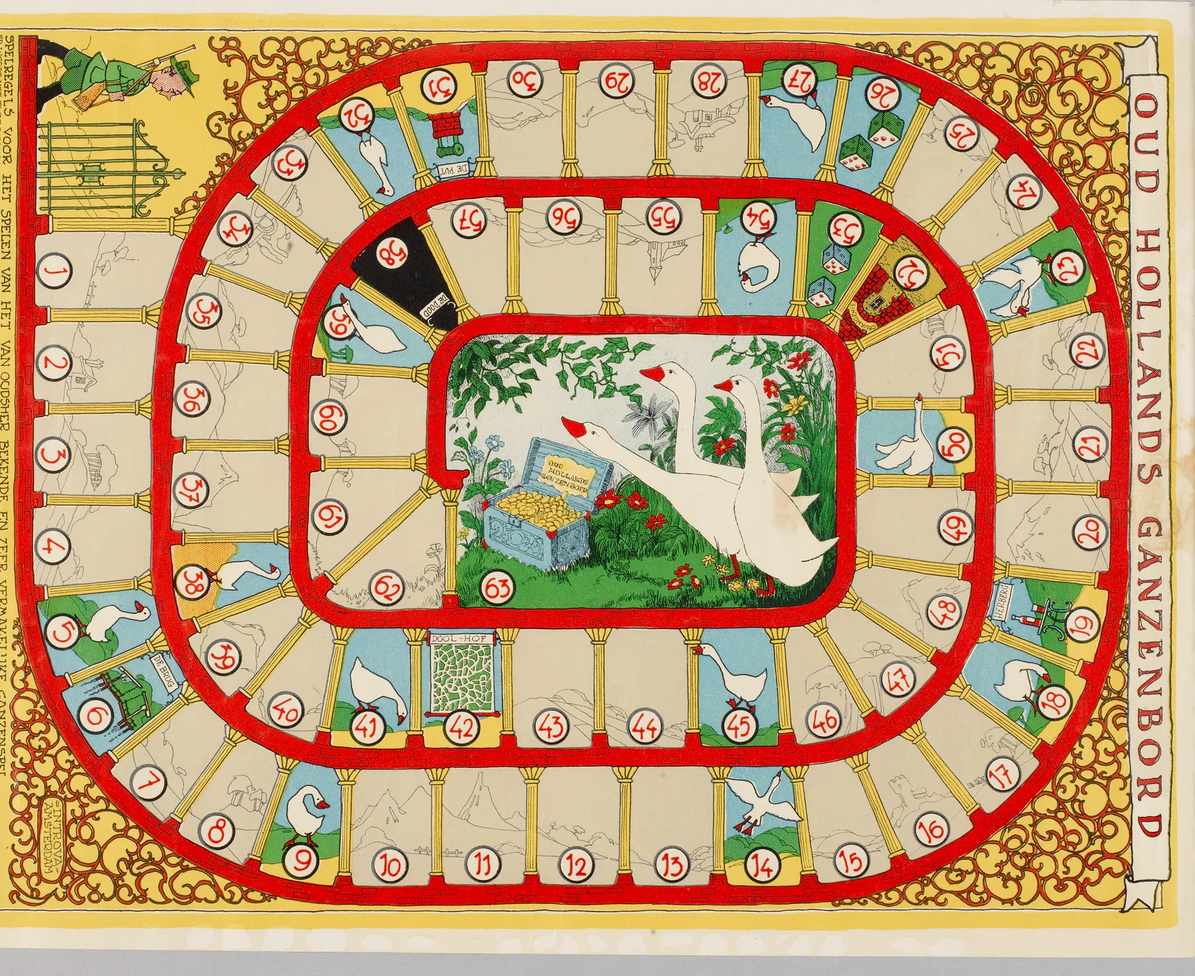
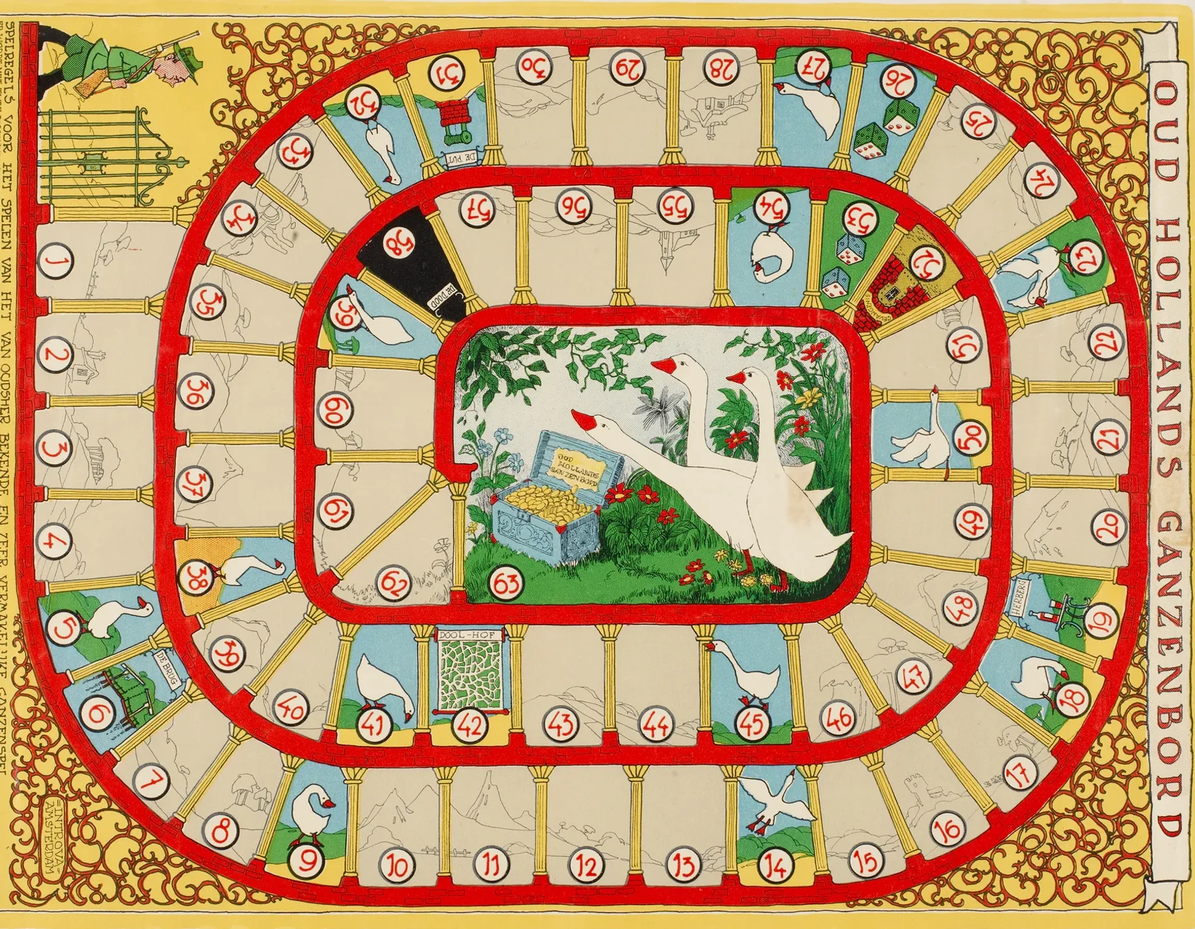
fix(features): strakker bord, geen startbalk en nieuwe thumbnail
Kropt de scan strakker zodat de papierranden weg zijn, haalt de dikke
houten CSS-rand weg en zet de pionnen bij de start boven vakje 1 in plaats
van in een losse START-balk. De gebeurteniskaart staat nu onder het bord
zodat hij geen vakjes of pionnen bedekt. Nieuwe thumbnail met een eigen
bestandsnaam tegen de immutable cache. Bordposities zijn opnieuw berekend
voor de nieuwe uitsnede; oude lokale aanpassingen worden via de
bordrevisie genegeerd.

diff --git a/libs/features/ganzenbord/model/board-points.ts b/libs/features/ganzenbord/model/board-points.ts
@@ -11,72 +11,77 @@ export interface BoardPoint {
 }
 
 export const CELL_POINTS: Readonly<Record<number, BoardPoint>> = {
-  1: { x: 9.752, y: 27.933 },
-  2: { x: 8.697, y: 37.243 },
-  3: { x: 9.224, y: 46.233 },
-  4: { x: 9.224, y: 53.939 },
-  5: { x: 9.311, y: 62.371 },
-  6: { x: 11.667, y: 69.495 },
-  7: { x: 16.042, y: 76.62 },
-  8: { x: 20.641, y: 79.908 },
-  9: { x: 25.801, y: 83.216 },
-  10: { x: 33.542, y: 82.668 },
-  11: { x: 41.282, y: 82.394 },
-  12: { x: 48.462, y: 83.079 },
-  13: { x: 55.641, y: 83.353 },
-  14: { x: 64.054, y: 82.805 },
-  15: { x: 70.337, y: 83.627 },
-  16: { x: 76.394, y: 80.476 },
-  17: { x: 81.891, y: 76.091 },
-  18: { x: 85.369, y: 69.515 },
-  19: { x: 87.949, y: 62.462 },
-  20: { x: 89.183, y: 54.379 },
-  21: { x: 88.622, y: 43.673 },
-  22: { x: 88.51, y: 35.863 },
-  23: { x: 87.388, y: 28.687 },
-  24: { x: 84.247, y: 21.973 },
-  25: { x: 79.087, y: 17.041 },
-  26: { x: 73.141, y: 13.205 },
-  27: { x: 66.635, y: 11.972 },
-  28: { x: 60.128, y: 10.739 },
-  29: { x: 51.939, y: 12.246 },
-  30: { x: 43.862, y: 12.383 },
-  31: { x: 37.692, y: 13.479 },
-  32: { x: 31.635, y: 16.904 },
-  33: { x: 26.699, y: 20.74 },
-  34: { x: 22.772, y: 26.632 },
-  35: { x: 20.978, y: 33.482 },
-  36: { x: 21.538, y: 40.528 },
-  37: { x: 21.538, y: 50.667 },
-  38: { x: 20.641, y: 57.517 },
-  39: { x: 21.651, y: 64.792 },
-  40: { x: 26.474, y: 68.08 },
-  41: { x: 31.859, y: 68.765 },
-  42: { x: 39.263, y: 69.45 },
-  43: { x: 46.891, y: 69.176 },
-  44: { x: 54.295, y: 70.135 },
-  45: { x: 61.923, y: 68.628 },
-  46: { x: 67.981, y: 68.354 },
-  47: { x: 73.029, y: 66.162 },
-  48: { x: 76.394, y: 60.681 },
-  49: { x: 76.394, y: 53.146 },
-  50: { x: 76.731, y: 44.938 },
-  51: { x: 77.628, y: 36.992 },
-  52: { x: 74.263, y: 30.279 },
-  53: { x: 69.888, y: 27.127 },
-  54: { x: 63.942, y: 26.99 },
-  55: { x: 56.09, y: 26.99 },
-  56: { x: 47.901, y: 26.442 },
-  57: { x: 40.385, y: 27.264 },
-  58: { x: 35.224, y: 29.046 },
-  59: { x: 31.186, y: 33.978 },
-  60: { x: 31.522, y: 41.787 },
-  61: { x: 30.962, y: 50.83 },
-  62: { x: 33.654, y: 57.132 },
-  63: { x: 45.208, y: 56.584 },
+  1: { x: 9.917, y: 28.242 },
+  2: { x: 8.844, y: 38.188 },
+  3: { x: 9.38, y: 47.791 },
+  4: { x: 9.38, y: 56.023 },
+  5: { x: 9.469, y: 65.031 },
+  6: { x: 11.865, y: 72.641 },
+  7: { x: 16.314, y: 80.253 },
+  8: { x: 20.991, y: 83.765 },
+  9: { x: 26.238, y: 87.299 },
+  10: { x: 34.111, y: 86.714 },
+  11: { x: 41.982, y: 86.421 },
+  12: { x: 49.283, y: 87.153 },
+  13: { x: 56.584, y: 87.445 },
+  14: { x: 65.14, y: 86.86 },
+  15: { x: 71.529, y: 87.738 },
+  16: { x: 77.689, y: 84.372 },
+  17: { x: 83.279, y: 79.688 },
+  18: { x: 86.816, y: 72.663 },
+  19: { x: 89.44, y: 65.128 },
+  20: { x: 90.695, y: 56.493 },
+  21: { x: 90.124, y: 45.057 },
+  22: { x: 90.01, y: 36.713 },
+  23: { x: 88.869, y: 29.048 },
+  24: { x: 85.675, y: 21.875 },
+  25: { x: 80.427, y: 16.607 },
+  26: { x: 74.381, y: 12.509 },
+  27: { x: 67.764, y: 11.192 },
+  28: { x: 61.147, y: 9.874 },
+  29: { x: 52.819, y: 11.484 },
+  30: { x: 44.605, y: 11.631 },
+  31: { x: 38.331, y: 12.801 },
+  32: { x: 32.171, y: 16.46 },
+  33: { x: 27.152, y: 20.558 },
+  34: { x: 23.158, y: 26.852 },
+  35: { x: 21.334, y: 34.17 },
+  36: { x: 21.903, y: 41.697 },
+  37: { x: 21.903, y: 52.528 },
+  38: { x: 20.991, y: 59.846 },
+  39: { x: 22.018, y: 67.617 },
+  40: { x: 26.923, y: 71.13 },
+  41: { x: 32.399, y: 71.862 },
+  42: { x: 39.928, y: 72.593 },
+  43: { x: 47.686, y: 72.301 },
+  44: { x: 55.215, y: 73.325 },
+  45: { x: 62.973, y: 71.715 },
+  46: { x: 69.133, y: 71.422 },
+  47: { x: 74.267, y: 69.081 },
+  48: { x: 77.689, y: 63.226 },
+  49: { x: 77.689, y: 55.176 },
+  50: { x: 78.032, y: 46.408 },
+  51: { x: 78.944, y: 37.92 },
+  52: { x: 75.522, y: 30.748 },
+  53: { x: 71.073, y: 27.381 },
+  54: { x: 65.026, y: 27.235 },
+  55: { x: 57.041, y: 27.235 },
+  56: { x: 48.713, y: 26.649 },
+  57: { x: 41.069, y: 27.527 },
+  58: { x: 35.821, y: 29.431 },
+  59: { x: 31.715, y: 34.7 },
+  60: { x: 32.056, y: 43.042 },
+  61: { x: 31.487, y: 52.702 },
+  62: { x: 34.224, y: 59.434 },
+  63: { x: 45.974, y: 58.849 },
 };
 
+/** Vlak boven vakje 1, waar de pionnen voor de eerste worp klaarstaan. */
+export const START_POINT: BoardPoint = { x: 9.917, y: 25.6 };
+
 const OVERRIDE_KEY = "games.ganzenbord.board-points.v1";
+/** Ophogen zodra de uitsnede van het bord verandert; oude percentages kloppen dan niet meer. */
+const BOARD_REVISION = 2;
 
 function isPercent(value: unknown): value is number {
   return typeof value === "number" && Number.isFinite(value) && value >= 0 && value <= 100;
@@ -106,7 +111,14 @@ function toOverrides(parsed: unknown): Record<number, BoardPoint> {
 
 function readOverrides(): Readonly<Record<number, BoardPoint>> {
   try {
-    return toOverrides(JSON.parse(localStorage.getItem(OVERRIDE_KEY) ?? "null"));
+    const stored = JSON.parse(localStorage.getItem(OVERRIDE_KEY) ?? "null") as {
+      readonly revision?: number;
+      readonly points?: unknown;
+    } | null;
+    if (stored?.revision !== BOARD_REVISION) {
+      return {};
+    }
+    return toOverrides(stored.points);
   } catch {
     return {};
   }
@@ -131,7 +143,10 @@ export function saveCellPoints(points: Readonly<Record<number, BoardPoint>>): vo
     }
   }
   try {
-    localStorage.setItem(OVERRIDE_KEY, JSON.stringify(overrides));
+    localStorage.setItem(
+      OVERRIDE_KEY,
+      JSON.stringify({ revision: BOARD_REVISION, points: overrides }),
+    );
   } catch {
     // Zonder opslag werkt de rest van het spel gewoon met de vaste waarden.
   }

diff --git a/tests/web/ganzenbord-board-points.test.ts b/tests/web/ganzenbord-board-points.test.ts
@@ -8,11 +8,18 @@ import {
 
 const KEY = "games.ganzenbord.board-points.v1";
 
-describe("ganzenbord: bordposities", () => {
-  beforeEach(() => {
-    localStorage.clear();
-  });
+function stored(): { revision: number; points: Record<string, unknown> } {
+  return JSON.parse(localStorage.getItem(KEY) ?? "{}") as {
+    revision: number;
+    points: Record<string, unknown>;
+  };
+}
 
+beforeEach(() => {
+  localStorage.clear();
+});
+
+describe("ganzenbord: bordposities", () => {
   it("gebruikt zonder aanpassing de vaste punten", () => {
     const points = loadCellPoints();
     expect(points[1]).toEqual(CELL_POINTS[1]);
@@ -22,9 +29,8 @@ describe("ganzenbord: bordposities", () => {
   it("bewaart alleen de vakjes die echt verschillen", () => {
     saveCellPoints({ ...CELL_POINTS, 5: { x: 12.5, y: 34.5 } });
 
-    expect(JSON.parse(localStorage.getItem(KEY) ?? "{}")).toEqual({
-      5: { x: 12.5, y: 34.5 },
-    });
+    expect(stored().revision).toBe(2);
+    expect(stored().points).toEqual({ 5: { x: 12.5, y: 34.5 } });
     expect(loadCellPoints()[5]).toEqual({ x: 12.5, y: 34.5 });
     expect(loadCellPoints()[6]).toEqual(CELL_POINTS[6]);
   });
@@ -33,11 +39,14 @@ describe("ganzenbord: bordposities", () => {
     localStorage.setItem(
       KEY,
       JSON.stringify({
-        2: { x: 10, y: 20 },
-        3: { x: -1, y: 20 },
-        4: { x: 10, y: "20" },
-        64: { x: 10, y: 20 },
-        hallo: { x: 10, y: 20 },
+        revision: 2,
+        points: {
+          2: { x: 10, y: 20 },
+          3: { x: -1, y: 20 },
+          4: { x: 10, y: "20" },
+          64: { x: 10, y: 20 },
+          hallo: { x: 10, y: 20 },
+        },
       }),
     );
 
@@ -46,6 +55,12 @@ describe("ganzenbord: bordposities", () => {
     expect(points[3]).toEqual(CELL_POINTS[3]);
     expect(points[4]).toEqual(CELL_POINTS[4]);
     expect(points[64]).toBeUndefined();
+  });
+
+  it("negeert aanpassingen van een oudere bordversie", () => {
+    localStorage.setItem(KEY, JSON.stringify({ revision: 1, points: { 2: { x: 10, y: 20 } } }));
+
+    expect(loadCellPoints()[2]).toEqual(CELL_POINTS[2]);
   });
 
   it("valt terug op de vaste punten bij kapotte opslag", () => {

diff --git a/libs/features/ganzenbord/ui/ganzenbord-board.tsx b/libs/features/ganzenbord/ui/ganzenbord-board.tsx
@@ -1,7 +1,7 @@
 import { useState } from "react";
 import type { GanzenbordGame, PlayerState } from "@entities/ganzenbord";
 import { cn } from "@shared/lib";
-import { loadCellPoints } from "../model/board-points";
+import { loadCellPoints, START_POINT } from "../model/board-points";
 import { playerName, positionText } from "../model/presentation";
 import { GanzenbordPawn } from "./ganzenbord-pawn";
 
@@ -62,25 +62,9 @@ interface GanzenbordBoardProps {
 export function GanzenbordBoard({ game }: GanzenbordBoardProps) {
   const [points] = useState(loadCellPoints);
   const groups = groupPlayers(game.players);
-  const startPlayers = game.players.filter((player) => player.position === 0);
 
   return (
     <div aria-label={boardSummary(game)} className="ganzenbord-board relative" role="img">
-      <div className="flex min-h-9 items-center gap-2 border-b border-[#7a4a24]/30 bg-[#f4e7cf] px-2 py-1">
-        <span className="text-[10px] font-black uppercase tracking-wide text-[#6b4224]">Start</span>
-        {startPlayers.length > 0 ? (
-          startPlayers.map((player) => (
-            <GanzenbordPawn
-              key={player.id}
-              active={player.id === game.current && game.status === "playing"}
-              compact
-              player={player}
-            />
-          ))
-        ) : (
-          <span className="text-xs text-muted-foreground">Hier begin je</span>
-        )}
-      </div>
       <div className="relative">
         <img
           alt=""
@@ -90,7 +74,7 @@ export function GanzenbordBoard({ game }: GanzenbordBoardProps) {
         />
         <div className="pointer-events-none absolute inset-0">
           {[...groups.entries()].map(([position, players]) => {
-            const point = points[position];
+            const point = position === 0 ? START_POINT : points[position];
             if (!point) {
               return null;
             }

diff --git a/libs/features/ganzenbord/ui/ganzenbord-event.tsx b/libs/features/ganzenbord/ui/ganzenbord-event.tsx
@@ -73,7 +73,7 @@ export function GanzenbordEvent({ game, event, onContinue }: GanzenbordEventProp
   return (
     <div
       aria-live="polite"
-      className="absolute bottom-3 left-1/2 z-20 w-[min(92%,26rem)] -translate-x-1/2 rounded-xl border-2 border-[#c9a45c] bg-[#fff8e7] p-3 text-[#3f2a18] shadow-[0_10px_30px_-10px_rgba(40,25,10,0.8)]"
+      className="mx-auto mt-2 w-full max-w-md rounded-xl border-2 border-[#c9a45c] bg-[#fff8e7] p-3 text-[#3f2a18] shadow-[0_10px_30px_-10px_rgba(40,25,10,0.8)]"
     >
       <div className="flex items-start gap-3">
         <span className="grid size-11 shrink-0 place-items-center rounded-full bg-[#f0dfb8]">

diff --git a/libs/entities/game/model/game-catalog.ts b/libs/entities/game/model/game-catalog.ts
@@ -160,7 +160,7 @@ export const gameCatalog: readonly GameCatalogEntry[] = [
     description: "Gooi met de dobbelstenen en race met je gans naar 63.",
     status: "available",
     to: "/ganzenbord",
-    thumbnail: "/thumbnails/ganzenbord-f0bca903.jpg",
+    thumbnail: "/thumbnails/ganzenbord-500e8c19.jpg",
     speech: {
       kind: "visual",
       reason: "Het bord, de dobbelsteen en de ganzepionnen zijn visueel.",

diff --git a/apps/games/src/app/board-editor-page.tsx b/apps/games/src/app/board-editor-page.tsx
@@ -120,7 +120,7 @@ export function BoardEditorPage() {
       </div>
 
       <div
-        className="relative w-full max-w-full touch-manipulation overflow-hidden rounded-lg border-4 border-[#7a4a24] bg-[#f4e7cf]"
+        className="relative w-full max-w-full touch-manipulation overflow-hidden rounded-lg"
         onClick={place}
       >
         <img

diff --git a/apps/games/src/app/styles/index.css b/apps/games/src/app/styles/index.css
@@ -117,12 +117,8 @@
   }
 
   .ganzenbord-board {
-    border: 6px solid #7a4a24;
-    border-radius: 0.875rem;
-    background-color: #f4e7cf;
-    box-shadow:
-      0 3px 0 #4d2c12,
-      0 18px 35px -18px rgb(40 25 10 / 0.8);
+    border-radius: 0.75rem;
+    box-shadow: 0 12px 30px -22px rgb(40 25 10 / 0.55);
     overflow: hidden;
   }
 
